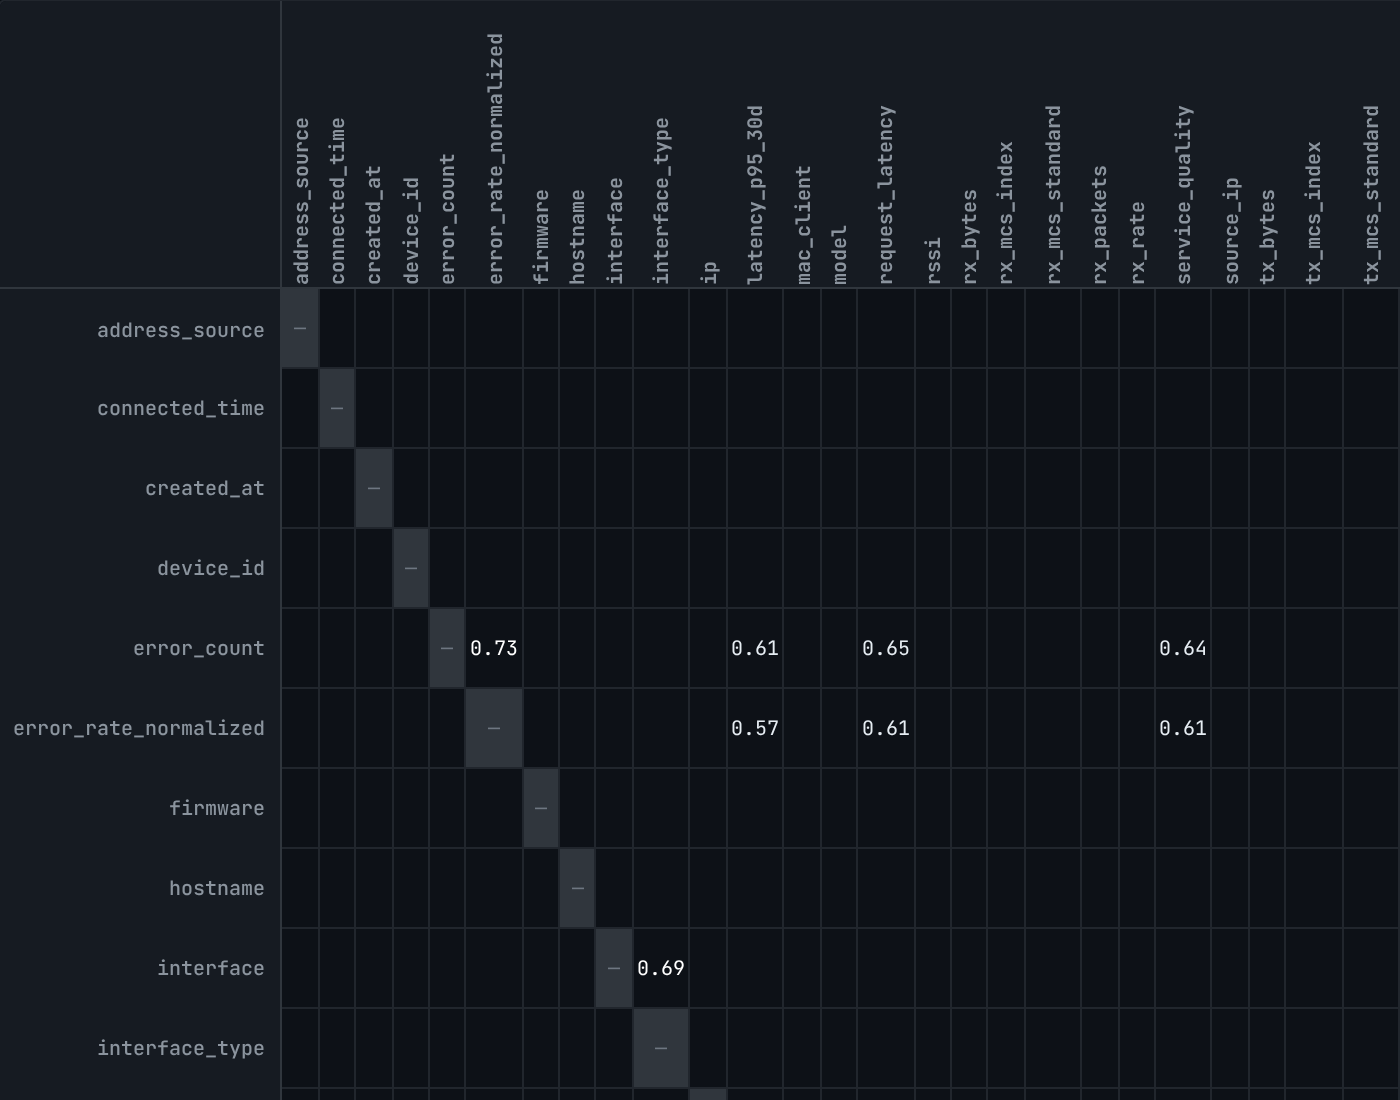
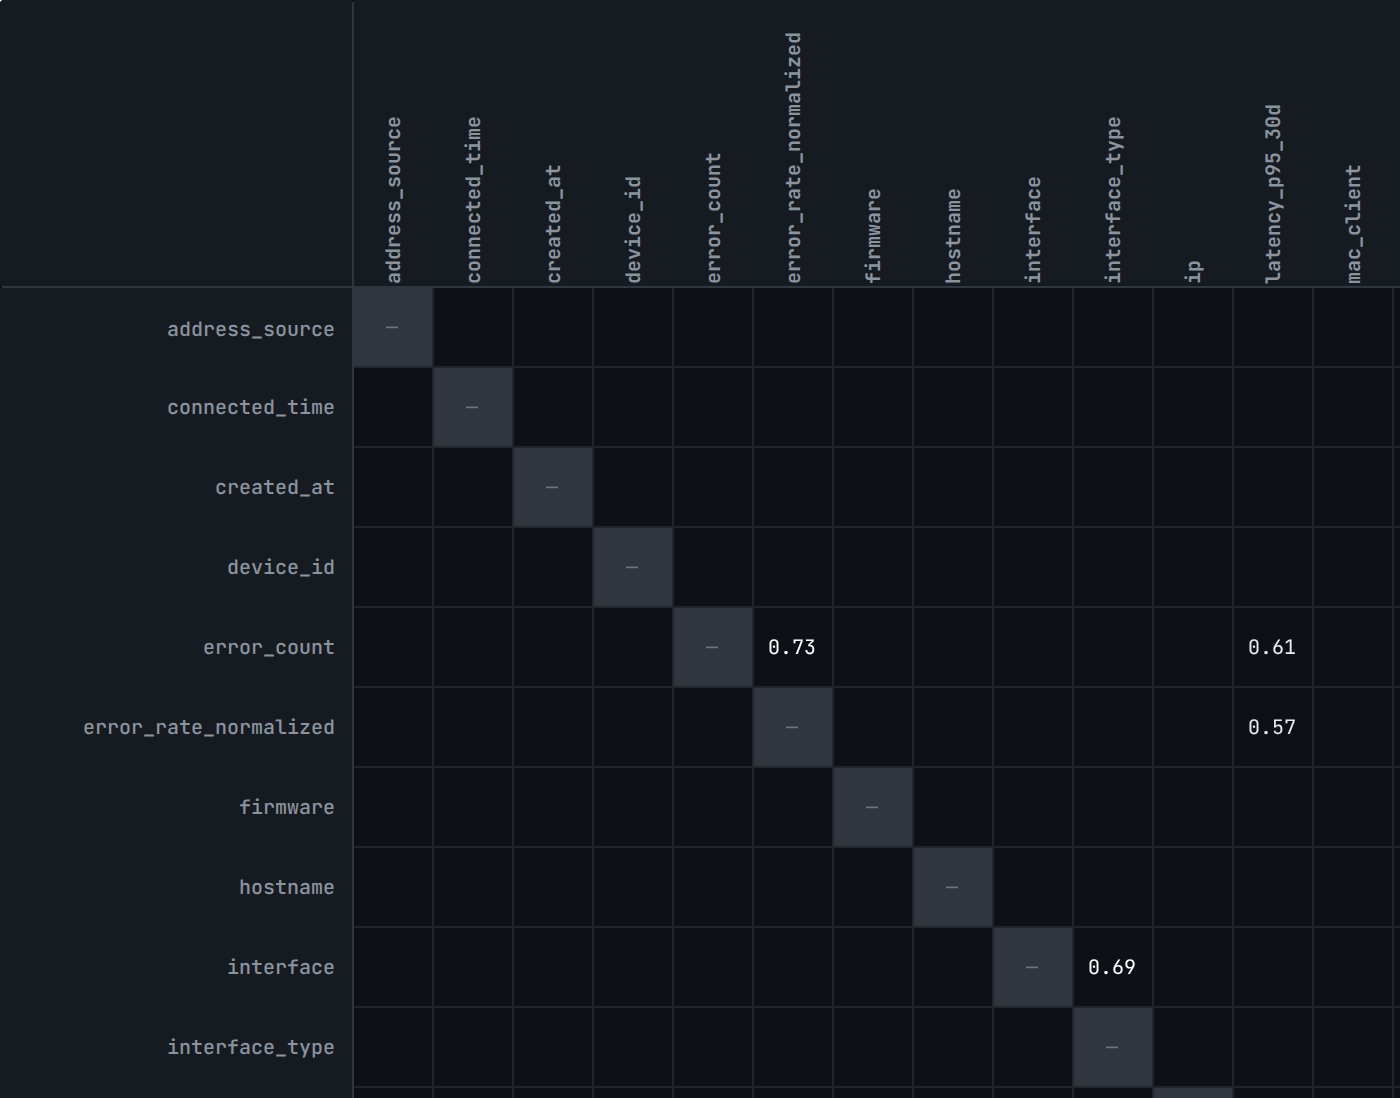
fix(web): force matrix table to its intrinsic width
table-layout:fixed was honored, but with no explicit table width the
browser scaled colgroup widths down proportionally to fit the parent
container — so w-44 (176px) rendered as 140.8px and w-10 (40px)
rendered as 18.3px (with sporadic 28.7px outliers on source-boundary
columns).

Add w-max on the table so it sizes to max-content (sum of colgroup
widths). The parent's overflow-auto picks up horizontal scroll when
total > viewport.

Empirical verification via new scripts/probe_matrix_widths.ts:

Before (commit 88c4a7d):
  Row-label column: 140.8 px × 30 cells
  Data cells: VARIANCE
    18.3 px × 540
    18.7 px × 30
    19.2 px × 60
    28.7 px × 240
    29.0 px × 30

After:
  Row-label column: 176.0 px × 30 cells (expected 176)
  Header data cells: 40.0 px × 30 (expected 40)
  Data cells:        40.0 px × 900 (expected 40)
  ✓ No outliers

The probe script stays in scripts/ for future regression checks on
the matrix layout.

diff --git a/scripts/probe_matrix_widths.ts b/scripts/probe_matrix_widths.ts
@@ -1,0 +1,179 @@
+/**
+ * One-shot Playwright probe: measure the actual rendered width of every cell
+ * in /similarity?tab=matrix to confirm (or refute) the table-layout:fixed +
+ * <colgroup> contract from MatrixGrid.tsx.
+ *
+ * Reads getBoundingClientRect().width (not clientWidth — that excludes
+ * borders) on every <th> and <td> inside the matrix table. Buckets by
+ * rounded width and prints a histogram. Outliers come with their column
+ * indices so the offending CSS rule is easy to track down.
+ *
+ * Run:
+ *   FEATCAT_URL=http://localhost:8000 bun run scripts/probe_matrix_widths.ts
+ *
+ * Exits non-zero only on probe error (matrix not rendering, no cells found),
+ * NOT on width variance — the goal is to report, not gate.
+ */
+
+import { chromium } from '@playwright/test'
+
+const BASE_URL = (process.env.FEATCAT_URL ?? 'http://localhost:5173').replace(/\/$/, '')
+
+interface CellMeasurement {
+  rowIndex: number
+  colIndex: number
+  tag: 'TD' | 'TH'
+  width: number
+}
+
+interface ProbeResult {
+  featureCount: number
+  rowLabelColumnWidths: number[]
+  headerCellWidths: number[]
+  dataCellWidths: CellMeasurement[]
+}
+
+async function main(): Promise<void> {
+  console.log(`Target: ${BASE_URL}/similarity?tab=matrix`)
+  const browser = await chromium.launch()
+  const context = await browser.newContext({
+    viewport: { width: 1440, height: 900 },
+    deviceScaleFactor: 2,
+    colorScheme: 'dark',
+  })
+  const page = await context.newPage()
+
+  try {
+    await page.goto(`${BASE_URL}/similarity?tab=matrix`, { waitUntil: 'networkidle' })
+
+    // Wait for skeletons to clear (the matrix is lazy-loaded).
+    await page
+      .waitForFunction(() => document.querySelectorAll('.animate-pulse').length === 0, undefined, {
+        timeout: 15_000,
+      })
+      .catch(() => {
+        console.warn('  ⚠ skeletons still present after 15s — continuing')
+      })
+
+    // Drop threshold to 0 so every cell renders, eliminating the
+    // "upper-empty" rendering branch and letting us measure every cell.
+    const numericThreshold = page.locator('input[type="number"][aria-label]').first()
+    if ((await numericThreshold.count()) > 0) {
+      await numericThreshold.fill('0')
+      await numericThreshold.press('Tab')
+    }
+    await page.waitForTimeout(400)
+
+    // Confirm the matrix table is present.
+    const matrix = page.locator('[data-testid="similarity-matrix"] table')
+    if ((await matrix.count()) === 0) {
+      console.error('✗ matrix table not rendered — aborting')
+      process.exit(2)
+    }
+
+    const result = await page.evaluate<ProbeResult>(() => {
+      const table = document.querySelector('[data-testid="similarity-matrix"] table')
+      if (!table) {
+        throw new Error('no table')
+      }
+      const rows = Array.from(table.querySelectorAll('tr'))
+      const headerRow = rows[0]
+      const dataRows = rows.slice(1)
+      // Header row: corner + N column headers. Skip the corner (index 0).
+      const headerCells = Array.from(headerRow.querySelectorAll('th'))
+      const headerCellWidths = headerCells.slice(1).map((el) => el.getBoundingClientRect().width)
+
+      const rowLabelColumnWidths: number[] = []
+      const dataCellWidths: { rowIndex: number; colIndex: number; tag: 'TD' | 'TH'; width: number }[] = []
+      dataRows.forEach((tr, rowIndex) => {
+        const rowCells = Array.from(tr.children) as HTMLElement[]
+        // First cell is the row-label <th>; the rest are <td>s.
+        rowCells.forEach((el, colIndex) => {
+          const w = el.getBoundingClientRect().width
+          const tag = (el.tagName === 'TH' ? 'TH' : 'TD') as 'TD' | 'TH'
+          if (colIndex === 0) {
+            rowLabelColumnWidths.push(w)
+          } else {
+            dataCellWidths.push({ rowIndex, colIndex, tag, width: w })
+          }
+        })
+      })
+
+      return {
+        featureCount: headerCellWidths.length,
+        rowLabelColumnWidths,
+        headerCellWidths,
+        dataCellWidths,
+      }
+    })
+
+    report(result)
+  } finally {
+    await browser.close()
+  }
+}
+
+function bucket(widths: number[]): Map<string, number> {
+  const m = new Map<string, number>()
+  for (const w of widths) {
+    const key = w.toFixed(1)
+    m.set(key, (m.get(key) ?? 0) + 1)
+  }
+  return m
+}
+
+function report(r: ProbeResult): void {
+  console.log(`\nMatrix probe — ${r.featureCount} features\n`)
+
+  // Row-label column.
+  const rowLabelBuckets = bucket(r.rowLabelColumnWidths)
+  if (rowLabelBuckets.size === 1) {
+    const [key, count] = rowLabelBuckets.entries().next().value as [string, number]
+    console.log(`  Row-label column: ${key} px ×${count} cells (expected ~176)`)
+  } else {
+    console.log(`  Row-label column: VARIANCE`)
+    for (const [w, c] of rowLabelBuckets) console.log(`    ${w} px × ${c}`)
+  }
+
+  // Header row data cells.
+  const headerBuckets = bucket(r.headerCellWidths)
+  if (headerBuckets.size === 1) {
+    const [key, count] = headerBuckets.entries().next().value as [string, number]
+    console.log(`  Header data cells: ${key} px ×${count} (expected 40)`)
+  } else {
+    console.log(`  Header data cells: VARIANCE`)
+    for (const [w, c] of headerBuckets) console.log(`    ${w} px × ${c}`)
+  }
+
+  // Data cells across the body.
+  const dataWidths = r.dataCellWidths.map((c) => c.width)
+  const dataBuckets = bucket(dataWidths)
+  if (dataBuckets.size === 1) {
+    const [key, count] = dataBuckets.entries().next().value as [string, number]
+    console.log(`  Data cells:        ${key} px ×${count} (expected 40)`)
+    console.log(`\n  ✓ No outliers — colgroup widths are honored.`)
+  } else {
+    console.log(`  Data cells: VARIANCE`)
+    for (const [w, c] of dataBuckets) console.log(`    ${w} px × ${c}`)
+    // Print outliers grouped by column.
+    const sorted = Array.from(dataBuckets.entries()).sort((a, b) => Number(b[1]) - Number(a[1]))
+    const dominant = Number(sorted[0][0])
+    const outliers = r.dataCellWidths.filter((c) => Math.abs(c.width - dominant) > 0.1)
+    const byCol = new Map<number, number[]>()
+    for (const o of outliers) {
+      const arr = byCol.get(o.colIndex) ?? []
+      arr.push(Number(o.width.toFixed(1)))
+      byCol.set(o.colIndex, arr)
+    }
+    console.log(`\n  Outlier columns (col index → distinct widths):`)
+    for (const [col, widths] of [...byCol.entries()].sort((a, b) => a[0] - b[0])) {
+      const distinct = [...new Set(widths)].sort()
+      console.log(`    col ${col}: ${distinct.join(', ')} px`)
+    }
+  }
+}
+
+main().catch((err) => {
+  console.error('Probe failed:', err)
+  process.exit(1)
+})

diff --git a/web/src/pages/similarity/MatrixGrid.tsx b/web/src/pages/similarity/MatrixGrid.tsx
@@ -113,7 +113,12 @@ function MatrixGridImpl({ features, cells, threshold, onCellClick }: MatrixGridP
   }, [features, n])
 
   return (
-    <table className="border-collapse text-[10px] font-mono [table-layout:fixed]">
+    <table className="border-collapse text-[10px] font-mono [table-layout:fixed] w-max">
+      {/* w-max forces the table to its intrinsic max-content width (sum of
+          colgroup widths). Without it, table-layout:fixed scales colgroup
+          widths down proportionally to fit the parent container — which is
+          how 40px columns ended up rendering as 18px. The parent's
+          overflow-auto picks up horizontal scroll when total > viewport. */}
       {/* table-layout:fixed + colgroup pin every column's width regardless
           of cell content. Without this, the browser would slightly redistribute
           width based on which cells render score text vs. empty. */}